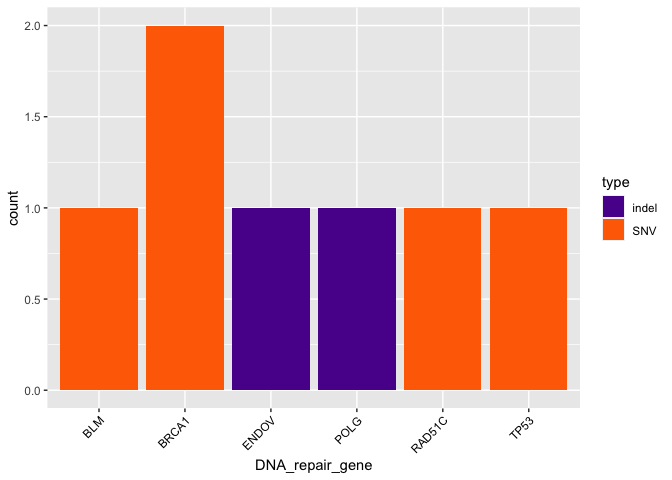
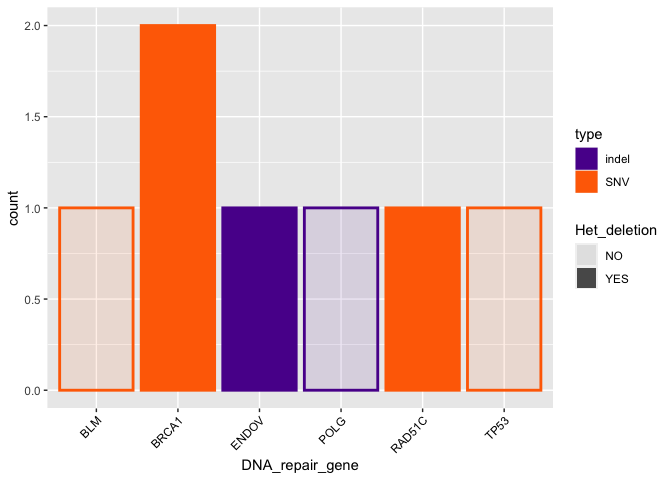
updates

diff --git a/script/task07_08.md b/script/task07_08.md
@@ -47,7 +47,7 @@ DNA_repair_log2R["DNA_repair_gene"] <- rownames(DNA_repair_log2R)
 
 DNA_repair_log2R["Het_deletion"] <- factor("NO", levels = c("YES", "NO"))
 DNA_repair_log2R$Het_deletion[which(DNA_repair_log2R$mean_log2R < (-0.5)
-                               & DNA_repair_log2R$mean_log2R > (-1))] <- "YES"
+                               & DNA_repair_log2R$mean_log2R > (-1.5))] <- "YES"
 ```
 
 Plot the mean log 2 ratio of the segments containing a DNA repair gene
@@ -75,6 +75,33 @@ The only SNP of the patient that is in Clinvar and overlaps with a DNA
 repair gene is found in **BRCA1**, which is also one of the DNA repair
 genes overlapping with heterozygous deletions.
 
+## DNA repair genes that overlap both heterozygous deletions and germline heterozygous SNPs and indels
+
+Load the DNA repair genes that overlap with germline SNPs (not only the
+ones from CLINVAR) and with the segments with heterozygous deletions
+(obtained with bedtools)
+
+``` r
+germline_overlap <- read.table("snps_hemidel_dna_repair.txt")
+colnames(germline_overlap) <- c("n_SNPs_indels", "DNA_repair_gene")
+```
+
+Plot the number of germline SNPs and indels overlapping with DNA repair
+genes
+
+``` r
+ggplot(data=germline_overlap, aes(x=DNA_repair_gene, y=n_SNPs_indels))+
+  geom_bar(stat="identity", fill="#f7b801")+
+    theme(axis.text.x = element_text(angle=45, hjust=1, vjust=1, 
+                                   colour="black"))
+```
+
+![](task07_08_files/figure-gfm/germline_overlap-1.png)<!-- -->
+
+``` r
+  # ggtitle("Number of germline SNPs and indels overlapping with DNA repair genes")
+```
+
 ## Task 8 - Determine which DNA repair genes overlap both heterozygous deletions and somatic point mutations of the patient
 
 Load the DNA repair genes overlapping with somatic SNVs and indels:
@@ -95,12 +122,17 @@ Plot the number of somatic SNVs and indels overlapping with DNA repair
 genes
 
 ``` r
-ggplot(data=somatic_overlap, aes(x=DNA_repair_gene, y=count, fill=type))+
-  geom_bar(stat="identity")+
+somatic_overlap$Het_deletion <- factor("NO", levels = c("NO", "YES"))
+somatic_overlap$Het_deletion[which(somatic_overlap$DNA_repair_gene 
+                                    %in% het_deleted_genes)] <- "YES"
+
+ggplot(data=somatic_overlap, 
+       aes(x=DNA_repair_gene, y=count, fill=type, alpha=Het_deletion, col=type))+
+  geom_bar(stat="identity", size=1)+
   theme(axis.text.x = element_text(angle=45, hjust=1, vjust=1, 
                                    colour="black"))+
-  # ggtitle("Number of somatic SNVs and indels overlapping with DNA repair genes")+
-  scale_fill_manual(values = c("#5a189a", "#ff6d00"))
+  scale_fill_manual(values = c("#5a189a", "#ff6d00"))+
+  scale_color_manual(values = c("#5a189a", "#ff6d00"))
 ```
 
 ![](task07_08_files/figure-gfm/somatic_overlap-1.png)<!-- -->
@@ -109,8 +141,7 @@ Find which DNA repair genes presenting germline SNPs also overlaps with
 an heteroxygous deletion
 
 ``` r
-somatic_deletion_overlap <- somatic_overlap$DNA_repair_gene[which(somatic_overlap$DNA_repair_gene
-                                                                  %in% het_deleted_genes)]
+somatic_deletion_overlap <- somatic_overlap$DNA_repair_gene[which(somatic_overlap$Het_deletion=="YES")]
 
 somatic_deletion_overlap
 ```

diff --git a/script/task05_R.md b/script/task05_R.md
@@ -77,13 +77,13 @@ Find the number of segments compatible with heterozygous deletions:
 
 ``` r
 het_del_segs <- segs2[which(segs2$seg.mean < (-0.5)
-                            & segs2$seg.mean > (-1)),]
+                            & segs2$seg.mean > (-1.5)),]
 
 # Number of segments compatible with heterozygous deletion
 nrow(het_del_segs)
 ```
 
-    ## [1] 64
+    ## [1] 101
 
 ``` r
 # Number of segments in total
